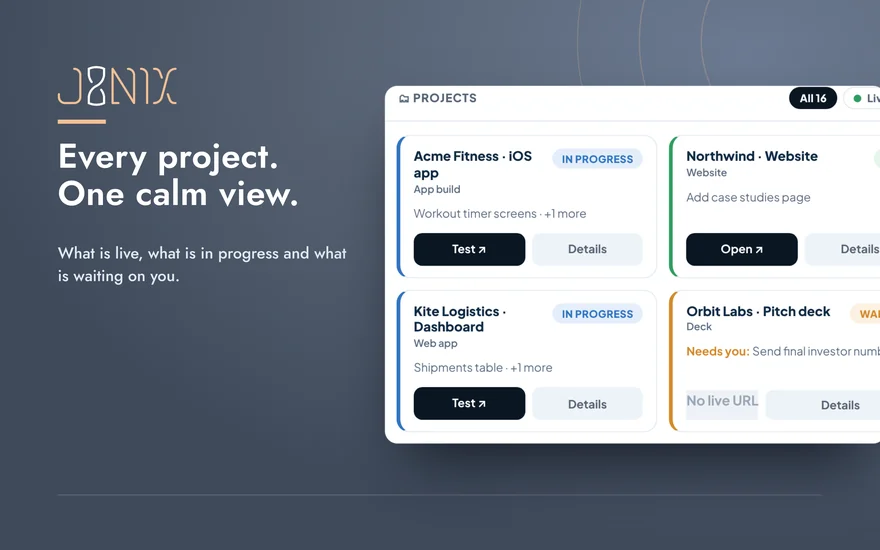
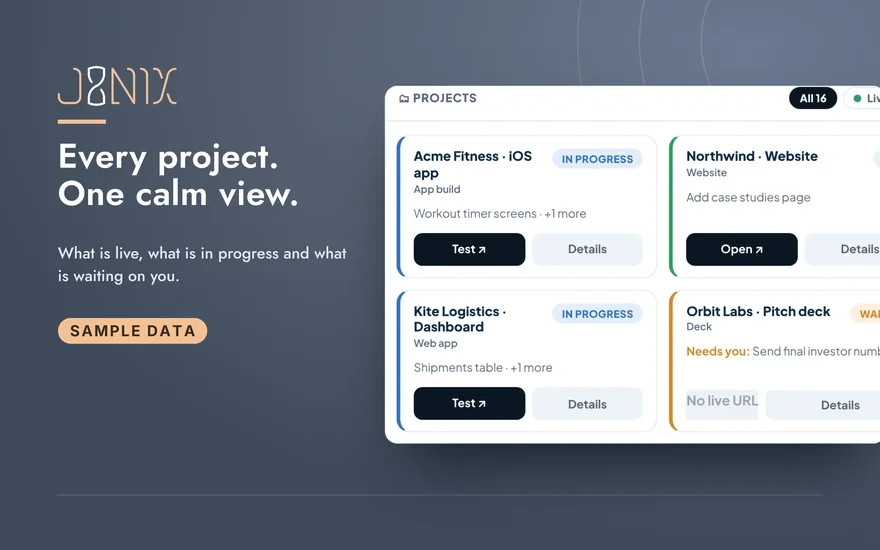
Tag J8NIX portfolio screens as sample data
Claude-Session: https://claude.ai/code/session_01NYMEjb3suz5Xdw8cPuvfsd

Changed region(s): [[0.0614, 0.5564, 0.2455, 0.6491]]

diff --git a/index.html b/index.html
@@ -600,7 +600,7 @@ footer{position:relative;z-index:1;border-top:1px solid var(--line);padding:56px
           <span class="shade"></span>
           <span class="cap"><b>SH&#10017;MER</b><small>Community safety</small><span class="go">Open &rsaquo;</span></span>
         </a>
-        <div class="dev lt soon" tabindex="0" data-shots="assets/studio/s9/j8-dash.webp,assets/studio/s9/j8-detail.webp,assets/studio/s9/j8-forge.webp" style="--o:3;--d:-3.4s;--glow:rgba(242,193,148,.4)" aria-label="J8NIX, coming soon">
+        <div class="dev lt soon" tabindex="0" data-shots="assets/studio/s9/j8-dash.webp?v=s12,assets/studio/s9/j8-detail.webp?v=s12,assets/studio/s9/j8-forge.webp?v=s12" style="--o:3;--d:-3.4s;--glow:rgba(242,193,148,.4)" aria-label="J8NIX, coming soon">
           <div class="rig"><div class="lid"><div class="scr">
             <div class="splash" style="--sp:radial-gradient(90% 70% at 50% 40%,#6a7890,#586475 60%,#4b5668)"><img src="assets/brand/j8nix-real/logo.png" alt="J8NIX logo" style="--lw2:60%" loading="lazy"></div>
             <div class="media"></div>
